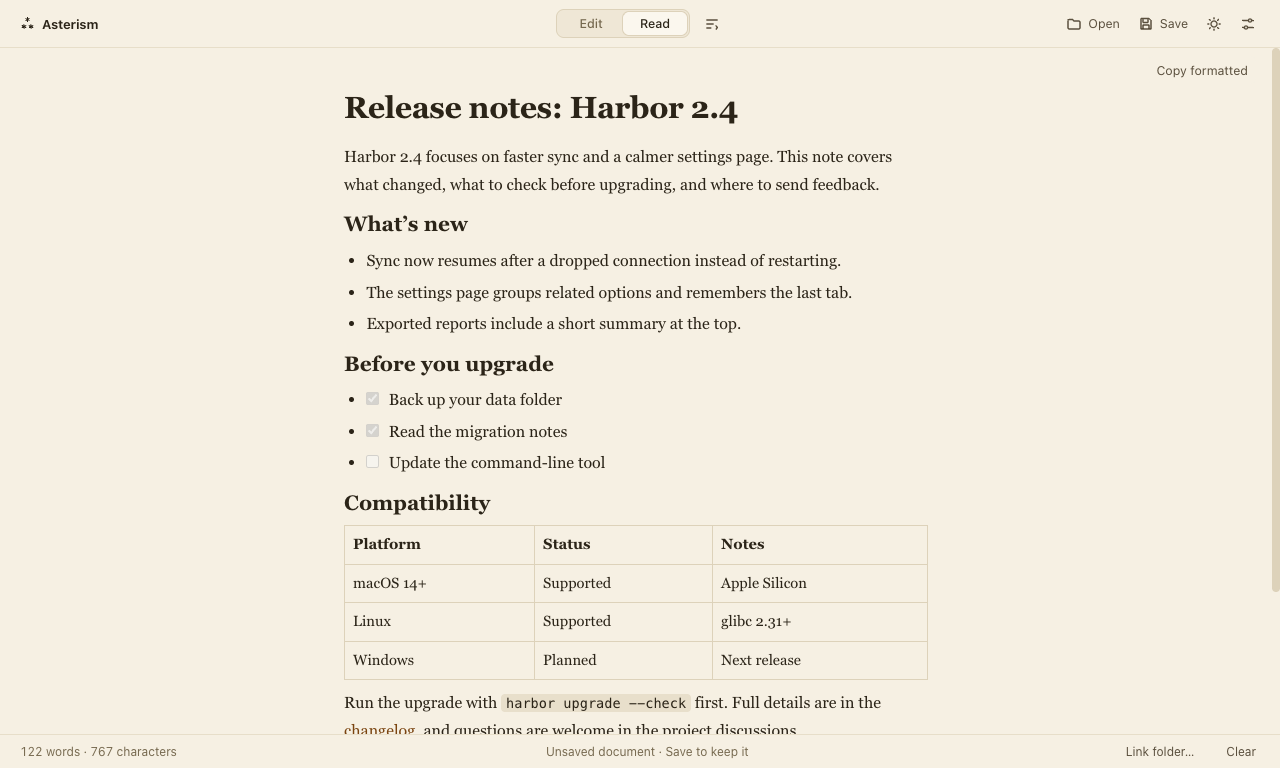
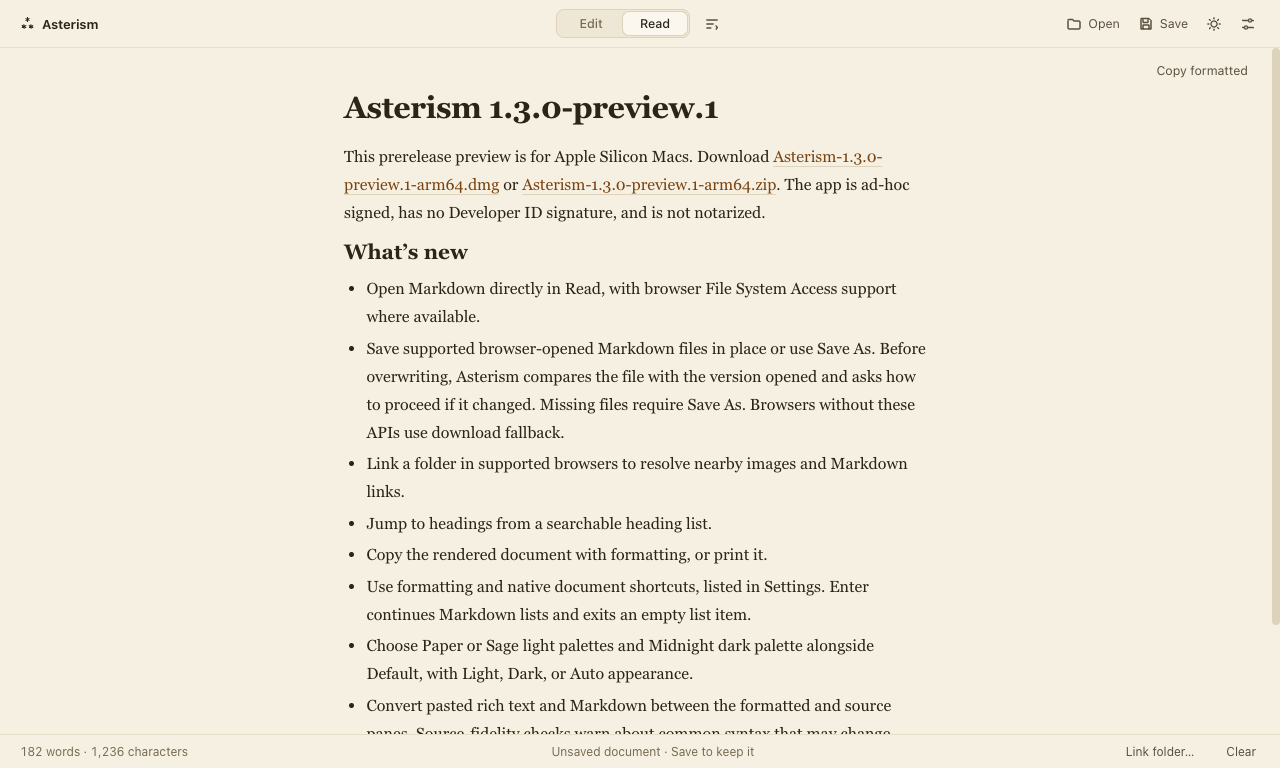
Replace generic site copy and fictional examples with Asterism content

diff --git a/site/index.html b/site/index.html
@@ -10,7 +10,7 @@
 <meta name="theme-color" content="#f7f1e6">
 <meta property="og:type" content="website">
 <meta property="og:title" content="Asterism: Markdown, made to be read">
-<meta property="og:description" content="Open Markdown as a calm reading page. Edit when you need to. Local, no account, MIT.">
+<meta property="og:description" content="Open Markdown in a formatted Read view and switch to Edit when you need to. Local, no account, MIT.">
 <meta property="og:url" content="https://asterism.adityapandya.com/">
 <meta property="og:image" content="https://asterism.adityapandya.com/assets/asterism-reader.png">
 <meta property="og:image:alt" content="Asterism showing a Markdown document in Read view">
@@ -29,7 +29,7 @@
   </a>
   <nav aria-label="Primary">
     <a href="#themes">Themes</a>
-    <a href="#source">Source</a>
+    <a href="#source">Read &amp; edit</a>
     <a href="#faq">Questions</a>
     <a class="nav-open" href="/app/">Open app</a>
   </nav>
@@ -42,12 +42,12 @@
       <span class="l1">Markdown,</span>
       <span class="l2">made to be <span class="em"><b class="star" aria-hidden="true">*</b>read<b class="star" aria-hidden="true">*</b></span>.</span>
     </h1>
-    <p class="lede">Open a <code>.md</code> file and it arrives as a quiet page, not a wall of symbols. Switch to Edit when you want to change something. Local, no account.</p>
+    <p class="lede">Asterism opens a <code>.md</code> file in Read view, with headings, lists and links formatted as a page. Switch to Edit to change it. Documents stay on your device and there is no account.</p>
     <div class="cta">
       <a class="btn primary" href="/app/">Open Asterism in your browser</a>
       <a class="btn ghost" href="https://github.com/aditya-pandya/asterism/releases/download/v1.3.0-preview.1/Asterism-1.3.0-preview.1-arm64.zip">Download for Mac (ZIP)</a>
     </div>
-    <p class="fine">Mac preview is Apple Silicon only and not notarized, so macOS asks you to confirm the first launch.</p>
+    <p class="fine">Apple Silicon preview. Not notarized; macOS may block the first launch. <a href="https://github.com/aditya-pandya/asterism/blob/v1.3.0-preview.1/README.md#how-to-open-it">How to open it</a>.</p>
   </div>
   <svg class="sig" viewBox="0 0 64 64" aria-hidden="true" focusable="false">
     <g fill="none" stroke="currentColor" stroke-width="3.6" stroke-linecap="round">
@@ -58,13 +58,13 @@
   </svg>
   <figure class="hero-shot">
     <div class="shot-back" aria-hidden="true"></div>
-    <img src="assets/asterism-reader.png" width="1280" height="768" alt="Asterism in Read view with the Paper theme: release notes with headings, a checklist and a table set as a clean page.">
+    <img src="assets/asterism-reader.png" width="1280" height="768" alt="Asterism in Read view with the Paper theme: the Asterism 1.3.0-preview.1 release notes shown as a formatted page.">
   </figure>
 </section>
 
 <section class="themes" id="themes" data-theme="paper" aria-labelledby="h-themes">
   <div class="themes-head">
-    <h2 id="h-themes">Pick the page <br>you read on.</h2>
+    <h2 id="h-themes">Choose a reading <br>theme.</h2>
     <div class="picker" role="group" aria-label="Reading theme">
       <button type="button" class="pick" data-theme="paper" aria-pressed="true"><i aria-hidden="true"></i>Paper</button>
       <button type="button" class="pick" data-theme="sage" aria-pressed="false"><i aria-hidden="true"></i>Sage</button>
@@ -72,44 +72,42 @@
     </div>
   </div>
   <figure class="stage">
-    <img class="stage-img is-on" data-for="paper" src="assets/asterism-reader.png" width="1280" height="768" alt="Asterism Read view in the Paper theme: warm white page, dark text.">
-    <img class="stage-img" data-for="sage" src="assets/sage.png" width="1280" height="768" alt="Asterism Read view in the Sage theme: soft green-grey page, dark green text.">
-    <img class="stage-img" data-for="midnight" src="assets/midnight.png" width="1280" height="768" alt="Asterism Read view in the Midnight theme: dark page, light text.">
-    <figcaption id="stage-caption" aria-live="polite"><strong>Paper.</strong> Warm white, high contrast, the closest thing to print.</figcaption>
+    <img class="stage-img is-on" data-for="paper" src="assets/asterism-reader.png" width="1280" height="768" alt="Asterism Read view in the Paper theme: release notes on a warm off-white page with dark text.">
+    <img class="stage-img" data-for="sage" src="assets/sage.png" width="1280" height="768" alt="Asterism Read view in the Sage theme: release notes on a pale green-grey page.">
+    <img class="stage-img" data-for="midnight" src="assets/midnight.png" width="1280" height="768" alt="Asterism Read view in the Midnight theme: release notes on a dark page with light text.">
+    <figcaption id="stage-caption" aria-live="polite"><strong>Paper.</strong> Warm off-white page with dark text.</figcaption>
   </figure>
 </section>
 
 <section class="source" id="source" aria-labelledby="h-source">
   <div class="source-head">
-    <h2 id="h-source">Every <span class="mk">#</span>, <span class="mk">*</span> and <span class="mk">&gt;</span> steps aside.</h2>
-    <p>Illustrative sample, not the app running. Flip it to see what Read view does with the punctuation.</p>
+    <h2 id="h-source">Markdown and formatted text.</h2>
+    <p>The same Markdown in both views, taken from the 1.3.0-preview.1 release notes. This is a static sample, not the running app.</p>
     <div class="seg" role="group" aria-label="Sample view">
       <button type="button" data-mode="source" aria-pressed="false">Source</button>
       <button type="button" data-mode="read" aria-pressed="true">Reading</button>
     </div>
   </div>
   <div class="doc is-read" id="doc" role="group" aria-label="Sample Markdown document">
-    <p class="ln h1"><span class="m" aria-hidden="true"># </span>Trip notes: Lisbon</p>
-    <p class="ln">Land at <span class="m" aria-hidden="true">**</span><strong>9:40</strong><span class="m" aria-hidden="true">**</span>, then take the <span class="m" aria-hidden="true">_</span><em>red line</em><span class="m" aria-hidden="true">_</span> into town.</p>
-    <p class="ln h2"><span class="m" aria-hidden="true">## </span>Pack</p>
-    <p class="ln li"><span class="m" aria-hidden="true">- [x] </span><span class="box done" aria-hidden="true"></span>Passport</p>
-    <p class="ln li"><span class="m" aria-hidden="true">- [ ] </span><span class="box" aria-hidden="true"></span>Phone charger</p>
-    <p class="ln quote"><span class="m" aria-hidden="true">&gt; </span>Wander up Alfama before the crowds do.</p>
+    <p class="ln h1"><span class="m" aria-hidden="true"># </span>Asterism 1.3.0-preview.1</p>
+    <p class="ln">This prerelease preview is for Apple Silicon Macs.</p>
+    <p class="ln h2"><span class="m" aria-hidden="true">## </span>What&rsquo;s new</p>
+    <p class="ln li"><span class="m" aria-hidden="true">- </span>Jump to headings from a searchable heading list.</p>
   </div>
 </section>
 
 <section class="open" aria-labelledby="h-open">
-  <h2 id="h-open">Two ways in.</h2>
+  <h2 id="h-open">Browser or Mac</h2>
   <a class="door web" href="/app/">
     <span class="door-label">In your browser</span>
     <span class="door-title">Open the app</span>
-    <span class="door-text">Nothing to install. Open a file, read, edit, save.</span>
+    <span class="door-text">Nothing to install. Open a file, read, edit and save.</span>
     <span class="door-go" aria-hidden="true">&rarr;</span>
   </a>
   <div class="door mac">
     <span class="door-label">On your Mac</span>
     <span class="door-title">Preview build</span>
-    <span class="door-text">Apple Silicon only. Not notarized: Control-click, choose Open the first time.</span>
+    <span class="door-text">Apple Silicon preview. Not notarized; macOS may block the first launch.</span>
     <a class="btn ghost dl" href="https://github.com/aditya-pandya/asterism/releases/download/v1.3.0-preview.1/Asterism-1.3.0-preview.1-arm64.zip">Download v1.3.0-preview.1 (ZIP)</a>
   </div>
 </section>
@@ -119,11 +117,11 @@
   <div class="faq-list">
     <details>
       <summary>What does the browser version do with files?</summary>
-      <p>Where the browser supports the File System Access API, Save writes back to the file, and Link folder lets Asterism resolve local images and relative Markdown links inside the one folder you pick. Elsewhere, Save downloads a copy and local images and relative links are not resolved.</p>
+      <p>In supported browsers, Save writes back to the file, and Link folder lets Asterism find nearby images and Markdown links in the folder you pick. In other browsers, Save downloads a copy.</p>
     </details>
     <details>
-      <summary>Does editing change my Markdown?</summary>
-      <p>Source mode keeps your text exactly as written. If you edit in Read view, the page is converted back to Markdown, and that conversion can normalize formatting. Copy formatted gives you rich text for pasting elsewhere.</p>
+      <summary>Can editing change my Markdown?</summary>
+      <p>The Markdown pane shows your exact source. In Edit, the formatted pane converts what you type back to Markdown, which can change syntax. Asterism warns about common cases and lets you restore the original during the session. The Read view is not editable.</p>
     </details>
     <details>
       <summary>What stays on my device?</summary>

diff --git a/site/site.js b/site/site.js
@@ -7,9 +7,9 @@
   var section = document.getElementById('themes');
   var caption = document.getElementById('stage-caption');
   var notes = {
-    paper: ['Paper.', 'Warm white, high contrast, the closest thing to print.'],
-    sage: ['Sage.', 'A soft green-grey page that is gentler over long reads.'],
-    midnight: ['Midnight.', 'Dark surface, light text, for low light.']
+    paper: ['Paper.', 'Warm off-white page with dark text.'],
+    sage: ['Sage.', 'Pale green-grey page with dark text.'],
+    midnight: ['Midnight.', 'Dark page with light text.']
   };
   var picks = Array.prototype.slice.call(section.querySelectorAll('.pick'));
   var imgs = Array.prototype.slice.call(section.querySelectorAll('.stage-img'));

diff --git a/site/styles.css b/site/styles.css
@@ -97,6 +97,10 @@ html:not(.js) .seg{display:none}
 .doc.is-read .ln.h2{font:700 1.55rem/1.2 var(--serif);margin-top:1.4rem}
 .m{display:inline-block;color:var(--verm-text);font-family:var(--mono);font-weight:500;white-space:pre;max-width:8ch;overflow:hidden;vertical-align:baseline;transition:max-width .45s cubic-bezier(.5,0,.2,1),opacity .3s}
 .doc.is-read .m{max-width:0;opacity:0}
+.m.long{max-width:20ch}
+.doc.is-read .m.long{max-width:0}
+.doc:not(.is-read) .lk{text-decoration:none}
+.doc.is-read .lk{text-decoration:underline;text-underline-offset:.18em}
 .doc:not(.is-read) strong,.doc:not(.is-read) em{font-weight:400;font-style:normal}
 .doc.is-read strong{font-weight:800}
 .ln.quote{transition:all .35s}
